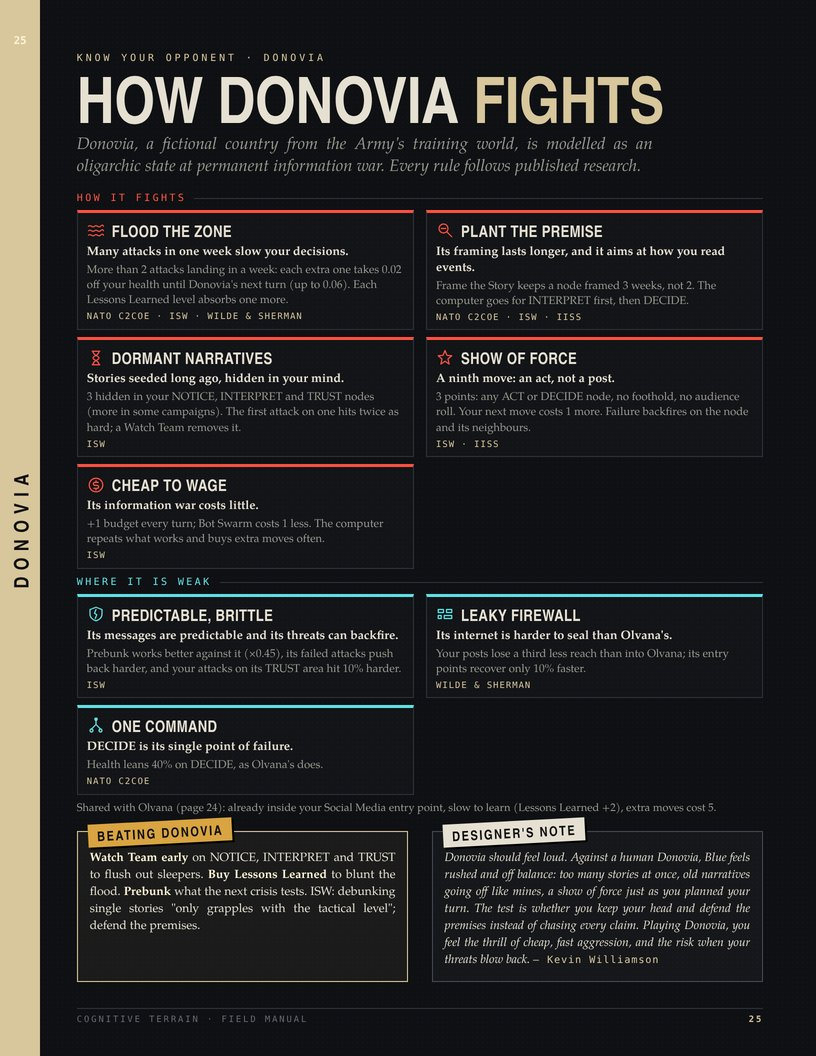
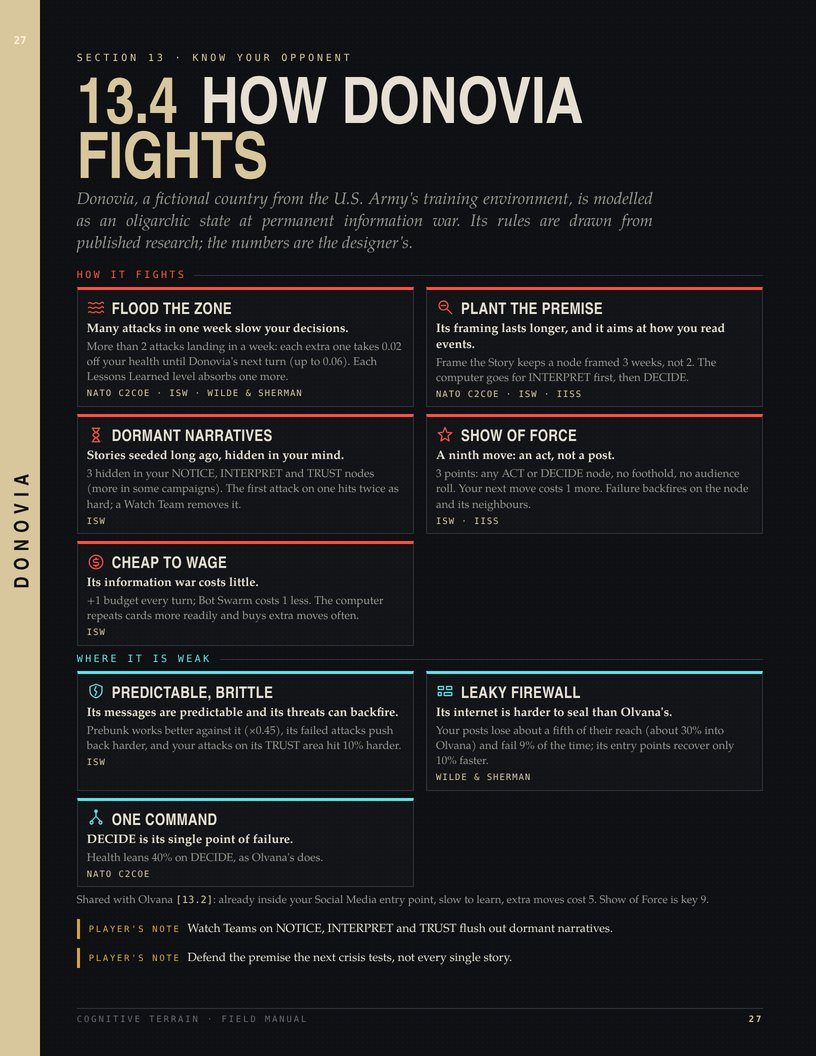
Site images retaken from 0.17.4: new play GIF with the move preview, current screenshots and manual pages throughout, and pictures for 0.17.4 (preview, Show the numbers) and 0.17.3 (rulebook pages, player aid)

Changed region(s): [[0.0919, 0.0312, 0.9498, 0.9375], [0.8272, 0.75, 0.8578, 0.7812]]

diff --git a/index.html b/index.html
@@ -188,7 +188,7 @@ ul.sub li::before{content:"";position:absolute;left:3px;top:.7em;width:7px;heigh
       <a class="btn" href="#downloads">All downloads</a>
     </div>
     <p class="note">No account, no install. Works on any computer with a modern browser. Your progress stays on your own machine.</p>
-    <picture><source srcset="images/board.jpg" media="(prefers-reduced-motion: reduce)"><img class="shot" src="images/play.gif" alt="A turn of play: Blue picks a move, previews it on one of Olvana's entry points and strikes, then Olvana answers and its moves light up on Blue's map with a card for each." width="960" height="600"></picture>
+    <picture><source srcset="images/board.jpg" media="(prefers-reduced-motion: reduce)"><img class="shot" src="images/play.gif" alt="A turn of play: Blue picks Plant Stories and hovers Olvana's News Media, where the preview shows a push of +45, the node going from Olvana 100 to Olvana 55, and LIKELY · 10% CHANCE TO FAIL. Blue strikes, follows up with Bot Swarm on the same node, ends the turn, and Olvana's moves light up on Blue's map with a card for each." width="960" height="600"></picture>
     <p class="cap">A turn in Typhoon Ines: Blue strikes Olvana's entry points, then Olvana answers. (A still picture shows instead if your device asks for reduced motion.)</p>
   </div>
 
@@ -197,8 +197,8 @@ ul.sub li::before{content:"";position:absolute;left:3px;top:.7em;width:7px;heigh
 <dl class="log">
 <dt>0.17.4<small>12 Oct 2026 · all platforms</small><span class="latest">LATEST</span></dt>
 <dd>
+<div class="cl-pair"><div class="cl-note"><ul><li><b>A clearer move preview.</b> Hover a node with a card picked and the card now shows how far the move pushes it as one big number, who the node leans toward now and after the move on a red and blue bar with a gold arrow, a verdict such as "Gets a foothold", arrows for what helps or hurts, and the odds in words: Almost guaranteed, Likely, Risky or Long shot, with the chance to fail. The words describe the game's dice, not real-world odds.<ul class="sub"><li>The push shown is for the usual audience the move would reach, so a watched node shows how much weaker an attack there usually is. The side panel shows the same figure.</li><li>Each move's result and full story, with the research formula, are unchanged.</li></ul></li></ul></div><figure><img width="640" height="807" alt="The new preview for Plant Stories on Olvana's News Media: COST 2, a big +45, the lean bar with a gold arrow from Olvana 100 now to Olvana 55 after this move, the verdict DENTS IT, arrows for Best area for this card, Entry point and Censored internet, and LIKELY · 10% CHANCE TO FAIL." loading="lazy" src="images/changelog/0.17.4-preview.jpg"/><figcaption>The new move preview</figcaption></figure></div><div class="cl-pair flip"><div class="cl-note"><ul><li><b>Show the numbers</b> in Settings adds the arithmetic under the preview.</li></ul></div><figure><img width="640" height="1069" alt="The same preview with Show the numbers on: Plant Stories 20, area (NOTICE) ×1.5, entry point ×1.5, audience (grade C, usual) ×1, push +45, and chance to fail 8% plus 2% for censors, 10%." loading="lazy" src="images/changelog/0.17.4-numbers.jpg"/><figcaption>Show the numbers: the arithmetic under the preview</figcaption></figure></div>
 <ul>
-<li><b>A clearer move preview.</b> Hover a node with a card picked and the card now shows how far the move pushes it as one big number, who the node leans toward now and after the move on a red and blue bar with a gold arrow, a verdict such as "Gets a foothold", arrows for what helps or hurts, and the odds in words: Almost guaranteed, Likely, Risky or Long shot, with the chance to fail. The words describe the game's dice, not real-world odds.<ul class="sub"><li><b>Show the numbers</b> in Settings adds the arithmetic under the preview.</li><li>The push shown is for the usual audience the move would reach, so a watched node shows how much weaker an attack there usually is. The side panel shows the same figure.</li><li>Each move's result and full story, with the research formula, are unchanged.</li></ul></li>
 <li><b>Numbers that add up.</b> A node's lean is rounded the same way everywhere, and the push in a move's preview and result is the change you see on the map. A push of 22.5 from Olvana 100 now reads +23 and Olvana 77; before, the map showed Olvana 78.</li>
 <li>The Field Manual's move and push pages show the new preview.</li>
 <li>No rule changes. Two-player codes work between 0.17 builds.</li>
@@ -208,8 +208,8 @@ ul.sub li::before{content:"";position:absolute;left:3px;top:.7em;width:7px;heigh
 <h3 class="vh">Earlier versions</h3>
 <div class="vers">
 <details class="ver"><summary><span class="vv">0.17.3</span><span class="vd">11 Oct 2026 · all platforms</span><span aria-label="Categories: Manuals, Player aid" class="vt" role="group"><i class="cat">Manuals</i><i class="cat">Player aid</i></span><span aria-hidden="true" class="vi"><svg height="18" viewbox="0 0 20 20" width="18"><circle cx="10" cy="10" fill="none" r="8.5" stroke="currentColor" stroke-width="1.4"></circle><path class="ii" d="M10 9v5M10 6.2v.1" stroke="currentColor" stroke-linecap="round" stroke-width="1.8"></path><path class="mm" d="M6.5 10h7" stroke="currentColor" stroke-linecap="round" stroke-width="1.8"></path></svg></span><span class="sr">Show what changed in 0.17.3</span></summary>
-<div class="vb"><ul>
-<li><b>Both manuals rewritten as numbered rulebooks.</b> Every rule has one number (such as 10.3) and is stated once, so you can find it. Tricky rules get a worked example, and advice is kept to one-line player's notes. The in-game Guide is the new Field Manual.<ul class="sub"><li>How hard a move lands, what moves its audience and what happens at the end of each week are explained in plain words, with pictures of worked examples and the game's own hover card.</li><li>Field Manual: sections 1.0 to 15.0 in the order a week is played, then reference tables, a glossary with plain and military terms side by side, the player aid, and sources.</li><li>Practitioner's Manual: the eight campaigns, sessions, the White Cell, the debrief, the model in numbers, the editor, designer's notes keyed to the Field Manual's rules, and a new section on sources and limits, with a facilitator's checklist and debrief questions for each campaign.</li><li>The Practitioner's Manual's worked examples come with pictures: one week at the White Cell console, the scoring arithmetic, reading a balance check, and a session timeline.</li></ul></li>
+<div class="vb"><div class="cl-pair"><div class="cl-note"><ul><li><b>Both manuals rewritten as numbered rulebooks.</b> Every rule has one number (such as 10.3) and is stated once, so you can find it. Tricky rules get a worked example, and advice is kept to one-line player's notes. The in-game Guide is the new Field Manual.<ul class="sub"><li>How hard a move lands, what moves its audience and what happens at the end of each week are explained in plain words, with pictures of worked examples and the game's own hover card.</li><li>Field Manual: sections 1.0 to 15.0 in the order a week is played, then reference tables, a glossary with plain and military terms side by side, the player aid, and sources.</li><li>Practitioner's Manual: the eight campaigns, sessions, the White Cell, the debrief, the model in numbers, the editor, designer's notes keyed to the Field Manual's rules, and a new section on sources and limits, with a facilitator's checklist and debrief questions for each campaign.</li><li>The Practitioner's Manual's worked examples come with pictures: one week at the White Cell console, the scoring arithmetic, reading a balance check, and a session timeline.</li></ul></li></ul></div><figure class="page"><img width="1400" height="899" alt="Two pages of the rulebook edition: Field Manual page 14, 7.3 and 7.4 Area fit and push, with numbered rules and a worked example using the game's hover card; and page 34, side 1 of the player aid: each week, your turn as numbered steps, the sixteen weeks, control, reach, how hard a move lands, crises and knockout." loading="lazy" src="images/changelog/0.17.3-rulebook.jpg"/><figcaption>Numbered rules with a worked example (p. 14), and side 1 of the player aid (p. 34)</figcaption></figure></div>
+<ul>
 <li><b>New: a two-sided player aid.</b> The sequence of play, your turn, the cards and the areas on one sheet. It is the Field Manual's Appendix C, and its own PDF to print.</li>
 <li><b>Fixes.</b> Humanoid Robots now says it also gives Plant Stories +1 grade, as it always has. General edits to documentation for clarity.</li>
 <li>No rule changes. Two-player codes work between 0.17 builds.</li>
@@ -242,7 +242,7 @@ ul.sub li::before{content:"";position:absolute;left:3px;top:.7em;width:7px;heigh
 <li>No rule changes. Two-player codes work between 0.16 builds.</li>
 </ul></div></details>
 <details class="ver"><summary><span class="vv">0.16.1</span><span class="vd">11 Oct 2026 · all platforms</span><span aria-label="Categories: Manuals" class="vt" role="group"><i class="cat">Manuals</i></span><span aria-hidden="true" class="vi"><svg height="18" viewbox="0 0 20 20" width="18"><circle cx="10" cy="10" fill="none" r="8.5" stroke="currentColor" stroke-width="1.4"></circle><path class="ii" d="M10 9v5M10 6.2v.1" stroke="currentColor" stroke-linecap="round" stroke-width="1.8"></path><path class="mm" d="M6.5 10h7" stroke="currentColor" stroke-linecap="round" stroke-width="1.8"></path></svg></span><span class="sr">Show what changed in 0.16.1</span></summary>
-<div class="vb"><div class="cl-pair"><div class="cl-note"><ul><li><b>Quick reference card, with the game's icons.</b> The cut-out card at the back of the Field Manual (and the last page of the in-game Guide) now uses the same icons as the game.<ul class="sub"><li>Every card and area has its icon, and a new map legend covers entry points, contested and leadership nodes, nodes under pressure, the watched, prebunked and framed status icons, coverage outlines, this week's orders and the ON AIR tab.</li><li>Donovia's Show of Force is listed too.</li></ul></li></ul></div><figure class="page"><img width="1000" height="1294" alt="The Field Manual's quick reference card: each card with its icon, key, cost and effect; each area with its icon and what losing it does; and a legend of the map's symbols and status icons." loading="lazy" src="images/changelog/0.16.1-quickref.jpg"/><figcaption>The quick reference card (Field Manual page 28)</figcaption></figure></div><ul><li><b>Practitioner's Manual, easier to read.</b> The design notes are now colour-coded cards.<ul class="sub"><li>Each has an icon, a "how I got there" line, and tags that separate what comes from the research from the designer's assumptions.</li><li>A new two-page section, <b>The math</b>, sets out every formula with worked examples: Decision Health, crises, the spread score, odds of failure, the weekly budget, and how far to trust a balance check.</li></ul></li><li>No rule changes: two-player codes between 0.16 builds still work. 0.16's Immersive Briefings and the two manuals are below.</li></ul>
+<div class="vb"><div class="cl-pair"><div class="cl-note"><ul><li><b>Quick reference card, with the game's icons.</b> The cut-out card at the back of the Field Manual (and the last page of the in-game Guide) now uses the same icons as the game.<ul class="sub"><li>Every card and area has its icon, and a new map legend covers entry points, contested and leadership nodes, nodes under pressure, the watched, prebunked and framed status icons, coverage outlines, this week's orders and the ON AIR tab.</li><li>Donovia's Show of Force is listed too.</li></ul></li></ul></div><figure class="page"><img width="1000" height="1294" alt="Side 2 of today's player aid, which grew out of the quick reference card: each card with its icon, cost and effect, each area and what losing it does, the map legend, the statuses and the chances to fail." loading="lazy" src="images/changelog/0.16.1-quickref.jpg"/><figcaption>The quick reference card, now side 2 of the player aid (Field Manual page 35)</figcaption></figure></div><ul><li><b>Practitioner's Manual, easier to read.</b> The design notes are now colour-coded cards.<ul class="sub"><li>Each has an icon, a "how I got there" line, and tags that separate what comes from the research from the designer's assumptions.</li><li>A new two-page section, <b>The math</b>, sets out every formula with worked examples: Decision Health, crises, the spread score, odds of failure, the weekly budget, and how far to trust a balance check.</li></ul></li><li>No rule changes: two-player codes between 0.16 builds still work. 0.16's Immersive Briefings and the two manuals are below.</li></ul>
 </div></details>
 <details class="ver"><summary><span class="vv">0.16</span><span class="vd">11 Oct 2026 · all platforms</span><span aria-label="Categories: Immersive Briefings, Manuals" class="vt" role="group"><i class="cat">Immersive Briefings</i><i class="cat">Manuals</i></span><span aria-hidden="true" class="vi"><svg height="18" viewbox="0 0 20 20" width="18"><circle cx="10" cy="10" fill="none" r="8.5" stroke="currentColor" stroke-width="1.4"></circle><path class="ii" d="M10 9v5M10 6.2v.1" stroke="currentColor" stroke-linecap="round" stroke-width="1.8"></path><path class="mm" d="M6.5 10h7" stroke="currentColor" stroke-linecap="round" stroke-width="1.8"></path></svg></span><span class="sr">Show what changed in 0.16</span></summary>
 <div class="vb">
@@ -263,7 +263,7 @@ ul.sub li::before{content:"";position:absolute;left:3px;top:.7em;width:7px;heigh
 
 </div></details>
 <details class="ver"><summary><span class="vv">0.14.2</span><span class="vd">11 Oct 2026 · all platforms</span><span aria-label="Categories: Accuracy, Opponents, Manual" class="vt" role="group"><i class="cat">Accuracy</i><i class="cat">Opponents</i><i class="cat">Manual</i></span><span aria-hidden="true" class="vi"><svg height="18" viewbox="0 0 20 20" width="18"><circle cx="10" cy="10" fill="none" r="8.5" stroke="currentColor" stroke-width="1.4"></circle><path class="ii" d="M10 9v5M10 6.2v.1" stroke="currentColor" stroke-linecap="round" stroke-width="1.8"></path><path class="mm" d="M6.5 10h7" stroke="currentColor" stroke-linecap="round" stroke-width="1.8"></path></svg></span><span class="sr">Show what changed in 0.14.2</span></summary>
-<div class="vb"><ul><li><b>Source check.</b> Every real-world claim in the game and the field manual was checked again against the cited research.<ul class="sub"><li>A few lines were tightened to say exactly what the sources say, and anything that is a game assumption is now labelled as one.</li></ul></li></ul><div class="cl-pair"><div class="cl-note"><ul><li><b>How Olvana fights.</b> Olvana now gets the same treatment as Donovia: its own cards in the game's "How Olvana fights" panel and its own field manual page, showing what each rule does, where it comes from and where Olvana is weak.</li></ul></div><figure><img width="816" height="1056" alt="Field manual page 24, How Olvana fights: rule cards, weaknesses, tips and a designer's note." loading="lazy" src="images/changelog/0.14.2-olvana.jpg"/><figcaption>How Olvana fights (manual p. 24)</figcaption></figure></div><div class="cl-pair flip"><div class="cl-note"><ul><li><b>Both opponents side by side.</b> The manual's "Know your enemy" pages now set out the rules both opponents share, then what is unique to each, with tips for beating them and a designer's note on how each should feel to play.</li></ul></div><figure><img width="816" height="1056" alt="Field manual page 25, How Donovia fights: rule cards, weaknesses, tips and a designer's note." loading="lazy" src="images/changelog/0.14.2-donovia.jpg"/><figcaption>How Donovia fights (manual p. 25)</figcaption></figure></div><ul><li>No rule changes: two-player codes between 0.14 builds still work.</li></ul>
+<div class="vb"><ul><li><b>Source check.</b> Every real-world claim in the game and the field manual was checked again against the cited research.<ul class="sub"><li>A few lines were tightened to say exactly what the sources say, and anything that is a game assumption is now labelled as one.</li></ul></li></ul><div class="cl-pair"><div class="cl-note"><ul><li><b>How Olvana fights.</b> Olvana now gets the same treatment as Donovia: its own cards in the game's "How Olvana fights" panel and its own field manual page, showing what each rule does, where it comes from and where Olvana is weak.</li></ul></div><figure><img width="816" height="1056" alt="Field Manual page 26, 13.3 Olvana: its rules, where it is weak, and player's notes." loading="lazy" src="images/changelog/0.14.2-olvana.jpg"/><figcaption>How Olvana fights (today: Field Manual p. 26)</figcaption></figure></div><div class="cl-pair flip"><div class="cl-note"><ul><li><b>Both opponents side by side.</b> The manual's "Know your enemy" pages now set out the rules both opponents share, then what is unique to each, with tips for beating them and a designer's note on how each should feel to play.</li></ul></div><figure><img width="816" height="1056" alt="Field Manual page 27, 13.4 Donovia: its rules, where it is weak, and player's notes." loading="lazy" src="images/changelog/0.14.2-donovia.jpg"/><figcaption>How Donovia fights (today: Field Manual p. 27)</figcaption></figure></div><ul><li>No rule changes: two-player codes between 0.14 builds still work.</li></ul>
 </div></details>
 <details class="ver"><summary><span class="vv">0.14.1</span><span class="vd">11 Oct 2026 · all platforms</span><span aria-label="Categories: Site, Credits" class="vt" role="group"><i class="cat">Site</i><i class="cat">Credits</i></span><span aria-hidden="true" class="vi"><svg height="18" viewbox="0 0 20 20" width="18"><circle cx="10" cy="10" fill="none" r="8.5" stroke="currentColor" stroke-width="1.4"></circle><path class="ii" d="M10 9v5M10 6.2v.1" stroke="currentColor" stroke-linecap="round" stroke-width="1.8"></path><path class="mm" d="M6.5 10h7" stroke="currentColor" stroke-linecap="round" stroke-width="1.8"></path></svg></span><span class="sr">Show what changed in 0.14.1</span></summary>
 <div class="vb"><ul>
@@ -273,7 +273,7 @@ ul.sub li::before{content:"";position:absolute;left:3px;top:.7em;width:7px;heigh
 </ul>
 <p class="dn"><b>DESIGNER'S NOTE</b>This one is purely for fun. A wargame becomes memorable when it is engaging. Night Watch was written to sound like the quiet hours on an operations floor. It seemed a shame to keep it locked behind the start screen. If it isn't your thing, one click turns it off.</p></div></details>
 <details class="ver"><summary><span class="vv">0.14</span><span class="vd">11 Oct 2026 · all platforms</span><span aria-label="Categories: New opponent, Campaigns, Manual" class="vt" role="group"><i class="cat">New opponent</i><i class="cat">Campaigns</i><i class="cat">Manual</i></span><span aria-hidden="true" class="vi"><svg height="18" viewbox="0 0 20 20" width="18"><circle cx="10" cy="10" fill="none" r="8.5" stroke="currentColor" stroke-width="1.4"></circle><path class="ii" d="M10 9v5M10 6.2v.1" stroke="currentColor" stroke-linecap="round" stroke-width="1.8"></path><path class="mm" d="M6.5 10h7" stroke="currentColor" stroke-linecap="round" stroke-width="1.8"></path></svg></span><span class="sr">Show what changed in 0.14</span></summary>
-<div class="vb"><div class="cl-pair"><div class="cl-note"><ul><li><b>A second opponent: Donovia.</b> Like Olvana, it is a fictional country from the US Army's training environment (DATE), and it plays by its own rules, each drawn from published research by NATO, ISW, IISS and Carnegie: it <b>floods the zone</b> (many attacks in a week slow your decisions), <b>plants premises</b> (its framing lasts longer), hides <b>dormant narratives</b> in your mind that hit twice as hard when switched on, and has a ninth move, <b>Show of Force</b>, that makes your next move cost more but can backfire.<ul class="sub"><li>It is also predictable and brittle, so prebunking works better against it.</li></ul></li></ul></div><figure><img width="1600" height="1000" alt="A game against Donovia in The Vell Valley, week 3: Blue's mind, with Donovia's mind in the corner and what is happening in the side panel." loading="lazy" src="images/changelog/0.14-board.jpg"/><figcaption>Playing against Donovia</figcaption></figure></div><div class="cl-pair flip"><div class="cl-note"><ul><li><b>Four new campaigns, all original fiction:</b> Winter Grid, The Lake Referendum, The Silent Survey Ship and The Vell Valley, a story of annexation.</li></ul></div><figure><img width="1000" height="1312" alt="The start screen with eight campaigns, each marked VS OLVANA or VS DONOVIA." loading="lazy" src="images/changelog/0.14-start.jpg"/><figcaption>Eight campaigns</figcaption></figure></div><div class="cl-pair"><div class="cl-note"><ul><li><b>Know your opponent.</b> "How Donovia fights" on the start screen explains every rule and its source. Your side panel counts the dormant narratives still hidden in your mind.</li></ul></div><figure><img width="900" height="1551" alt="How Donovia fights: each rule with what it does in the game and its source." loading="lazy" src="images/changelog/0.14-opponent.jpg"/><figcaption>How Donovia fights, with sources</figcaption></figure></div><ul><li>The campaign editor lets you choose Olvana or Donovia. The field manual has two new pages and the new sources.</li><li>Two-player codes work between 0.14 builds.</li></ul>
+<div class="vb"><div class="cl-pair"><div class="cl-note"><ul><li><b>A second opponent: Donovia.</b> Like Olvana, it is a fictional country from the US Army's training environment (DATE), and it plays by its own rules, each drawn from published research by NATO, ISW, IISS and Carnegie: it <b>floods the zone</b> (many attacks in a week slow your decisions), <b>plants premises</b> (its framing lasts longer), hides <b>dormant narratives</b> in your mind that hit twice as hard when switched on, and has a ninth move, <b>Show of Force</b>, that makes your next move cost more but can backfire.<ul class="sub"><li>It is also predictable and brittle, so prebunking works better against it.</li></ul></li></ul></div><figure><img width="1600" height="1000" alt="A game against Donovia in The Vell Valley, week 3: Blue's mind, with Donovia's mind in the corner and what is happening in the side panel." loading="lazy" src="images/changelog/0.14-board.jpg"/><figcaption>Playing against Donovia</figcaption></figure></div><div class="cl-pair flip"><div class="cl-note"><ul><li><b>Four new campaigns, all original fiction:</b> Winter Grid, The Lake Referendum, The Silent Survey Ship and The Vell Valley, a story of annexation.</li></ul></div><figure><img width="1000" height="1312" alt="The start screen with eight campaigns, each marked VS OLVANA or VS DONOVIA." loading="lazy" src="images/changelog/0.14-start.jpg"/><figcaption>Eight campaigns</figcaption></figure></div><div class="cl-pair"><div class="cl-note"><ul><li><b>Know your opponent.</b> "How Donovia fights" on the start screen explains every rule and its source. Your side panel counts the dormant narratives still hidden in your mind.</li></ul></div><figure><img width="900" height="1105" alt="How Donovia fights: each rule with what it does in the game and its source." loading="lazy" src="images/changelog/0.14-opponent.jpg"/><figcaption>How Donovia fights, with sources</figcaption></figure></div><ul><li>The campaign editor lets you choose Olvana or Donovia. The field manual has two new pages and the new sources.</li><li>Two-player codes work between 0.14 builds.</li></ul>
 
 
 </div></details>
@@ -288,7 +288,7 @@ ul.sub li::before{content:"";position:absolute;left:3px;top:.7em;width:7px;heigh
 
 </div></details>
 <details class="ver"><summary><span class="vv">0.13.3</span><span class="vd">11 Oct 2026 · browser</span><span aria-label="Categories: Interface, Guide, Music" class="vt" role="group"><i class="cat">Interface</i><i class="cat">Guide</i><i class="cat">Music</i></span><span aria-hidden="true" class="vi"><svg height="18" viewbox="0 0 20 20" width="18"><circle cx="10" cy="10" fill="none" r="8.5" stroke="currentColor" stroke-width="1.4"></circle><path class="ii" d="M10 9v5M10 6.2v.1" stroke="currentColor" stroke-linecap="round" stroke-width="1.8"></path><path class="mm" d="M6.5 10h7" stroke="currentColor" stroke-linecap="round" stroke-width="1.8"></path></svg></span><span class="sr">Show what changed in 0.13.3</span></summary>
-<div class="vb"><div class="cl-pair"><div class="cl-note"><ul><li><b>Cleaner panels.</b> Hovering a node now shows a short card: who it is, a tug-of-war bar for who holds it, and the expected result of your move as three big numbers.<ul class="sub"><li>The longer real-life explanations fold away in the side panel until you want them.</li></ul></li></ul></div><figure><img width="1300" height="768" alt="The new hover card and side panel: chips for side and area, a tug-of-war bar, and three result tiles." loading="lazy" src="images/changelog/0.13.3-panels.jpg"/><figcaption>Hover card and side panel</figcaption></figure></div><div class="cl-pair flip"><div class="cl-note"><ul><li><b>A readable log.</b> Each move is one row with its card icon, target and result badge; weeks, new technologies and crisis results have their own markers.</li></ul></div><figure><img width="620" height="680" alt="The new log: a week divider, a new technology row and move rows with icons and grade badges." loading="lazy" src="images/changelog/0.13.3-log.jpg"/><figcaption>The log</figcaption></figure></div><div class="cl-pair"><div class="cl-note"><ul><li><b>The field manual is now the in-game Guide</b>, page for page: the same magazine pages as the PDF, with a contents rail and page buttons. It works offline and remembers where you were.</li></ul></div><figure><img width="1600" height="1000" alt="The in-game Guide showing the field manual page Pick. Aim. Preview. Strike., with the contents rail on the left." loading="lazy" src="images/changelog/0.13.3-guide.jpg"/><figcaption>The field manual, inside the game</figcaption></figure></div><ul><li><b>Updated field manual.</b> Every screenshot is retaken from this build; the new PDF is in Downloads.</li></ul><div class="cl-pair flip"><div class="cl-note"><ul><li><b>Three new music tracks</b> in Settings ⚙: Undertow (a slow echoing arpeggio), Long Telegram (a lone voice over the drone) and Dead Air (radio pings in the night), alongside the original Night Watch.</li></ul></div><figure><img width="918" height="204" alt="The music track picker in Settings with four tracks." loading="lazy" src="images/changelog/0.13.3-music.jpg"/><figcaption>Pick a music track</figcaption></figure></div>
+<div class="vb"><div class="cl-pair"><div class="cl-note"><ul><li><b>Cleaner panels.</b> Hovering a node now shows a short card: who it is, a tug-of-war bar for who holds it, and the expected result of your move as three big numbers.<ul class="sub"><li>The longer real-life explanations fold away in the side panel until you want them.</li></ul></li></ul></div><figure><img width="920" height="941" alt="The hover card and side panel as they look today (0.17.4): the move preview with one big push number and a lean bar, and the side panel with its result tiles." loading="lazy" src="images/changelog/0.13.3-panels.jpg"/><figcaption>Hover card and side panel, as they look in 0.17.4</figcaption></figure></div><div class="cl-pair flip"><div class="cl-note"><ul><li><b>A readable log.</b> Each move is one row with its card icon, target and result badge; weeks, new technologies and crisis results have their own markers.</li></ul></div><figure><img width="620" height="830" alt="The new log: a week divider, a new technology row and move rows with icons and grade badges." loading="lazy" src="images/changelog/0.13.3-log.jpg"/><figcaption>The log</figcaption></figure></div><div class="cl-pair"><div class="cl-note"><ul><li><b>The field manual is now the in-game Guide</b>, page for page: the same magazine pages as the PDF, with a contents rail and page buttons. It works offline and remembers where you were.</li></ul></div><figure><img width="1600" height="1000" alt="The in-game Guide showing Field Manual page 12, 6.6 Making a move, with the contents rail on the left." loading="lazy" src="images/changelog/0.13.3-guide.jpg"/><figcaption>The field manual, inside the game (today's rulebook edition)</figcaption></figure></div><ul><li><b>Updated field manual.</b> Every screenshot is retaken from this build; the new PDF is in Downloads.</li></ul><div class="cl-pair flip"><div class="cl-note"><ul><li><b>Three new music tracks</b> in Settings ⚙: Undertow (a slow echoing arpeggio), Long Telegram (a lone voice over the drone) and Dead Air (radio pings in the night), alongside the original Night Watch.</li></ul></div><figure><img width="918" height="204" alt="The music track picker in Settings with four tracks." loading="lazy" src="images/changelog/0.13.3-music.jpg"/><figcaption>Pick a music track</figcaption></figure></div>
 
 
 </div></details>
@@ -325,8 +325,8 @@ ul.sub li::before{content:"";position:absolute;left:3px;top:.7em;width:7px;heigh
         <p>The Multi-Horizon Cognitive OODA framework, the engagement-effectiveness metric and the disruptive-innovation forecast by Rushing, Xu and colleagues; US Army ATP 3-13.1; and open reporting on cognitive operations. Full credits are in the manual and the in-game guide.</p>
       </div>
       <div>
-        <img class="inline" src="images/preview.jpg" alt="Hovering a node shows who it is, who holds it, and what the selected move would do there." width="900" height="597" loading="lazy">
-        <p class="cap" style="margin:8px 0 0">Hover any node to see who it is and what your move would do there.</p>
+        <img class="inline" src="images/preview.jpg" alt="The move preview on a prebunked News Media: a push of +23, a red and blue bar with a gold arrow from Olvana 100 now to Olvana 77 after the move, the verdict DENTS IT, arrows for what helps and hurts, and LIKELY · 18% CHANCE TO FAIL." width="900" height="921" loading="lazy">
+        <p class="cap" style="margin:8px 0 0">Pick a card and hover a node: one number for the push, where the node will lean after, and the odds in words.</p>
       </div>
     </div>
   </section>
@@ -363,7 +363,7 @@ ul.sub li::before{content:"";position:absolute;left:3px;top:.7em;width:7px;heigh
         <p><b>Running it for a class or an exercise?</b> Start a <b>New structured session · with White Cell</b> instead. A facilitator joins with Red's first code as the White Cell, sees both sides, and once a week can run a story, change a budget, move a crisis or strike a move. Codes then go Blue → Red → White Cell → Blue. The Practitioner's Manual explains how.</p>
         <p class="note">All 0.17.x versions play together. Any mix of browser, HTML file and installers works.</p>
       </div>
-      <img class="inline" src="images/turn-codes.jpg" alt="The turn-code window: your code with a copy button, and a box to paste your opponent's reply." width="900" height="683" loading="lazy">
+      <img class="inline" src="images/turn-codes.jpg" alt="The turn-code window: your code with a copy button, and a box to paste your opponent's reply." width="900" height="682" loading="lazy">
     </div>
   </section>
 

diff --git a/README.md b/README.md
@@ -2,7 +2,7 @@
 
 **Play and download: https://kw-wargame.github.io/cognitive-terrain-releases-playtest/**
 
-![A turn of play: Blue strikes Olvana's entry points, then Olvana answers.](images/play.gif)
+![A turn of play: Blue previews a move on Olvana's News Media and strikes, then Olvana answers.](images/play.gif)
 
 An educational, turn-based wargame of cognitive warfare: Blue vs Red (Olvana or Donovia).
 
